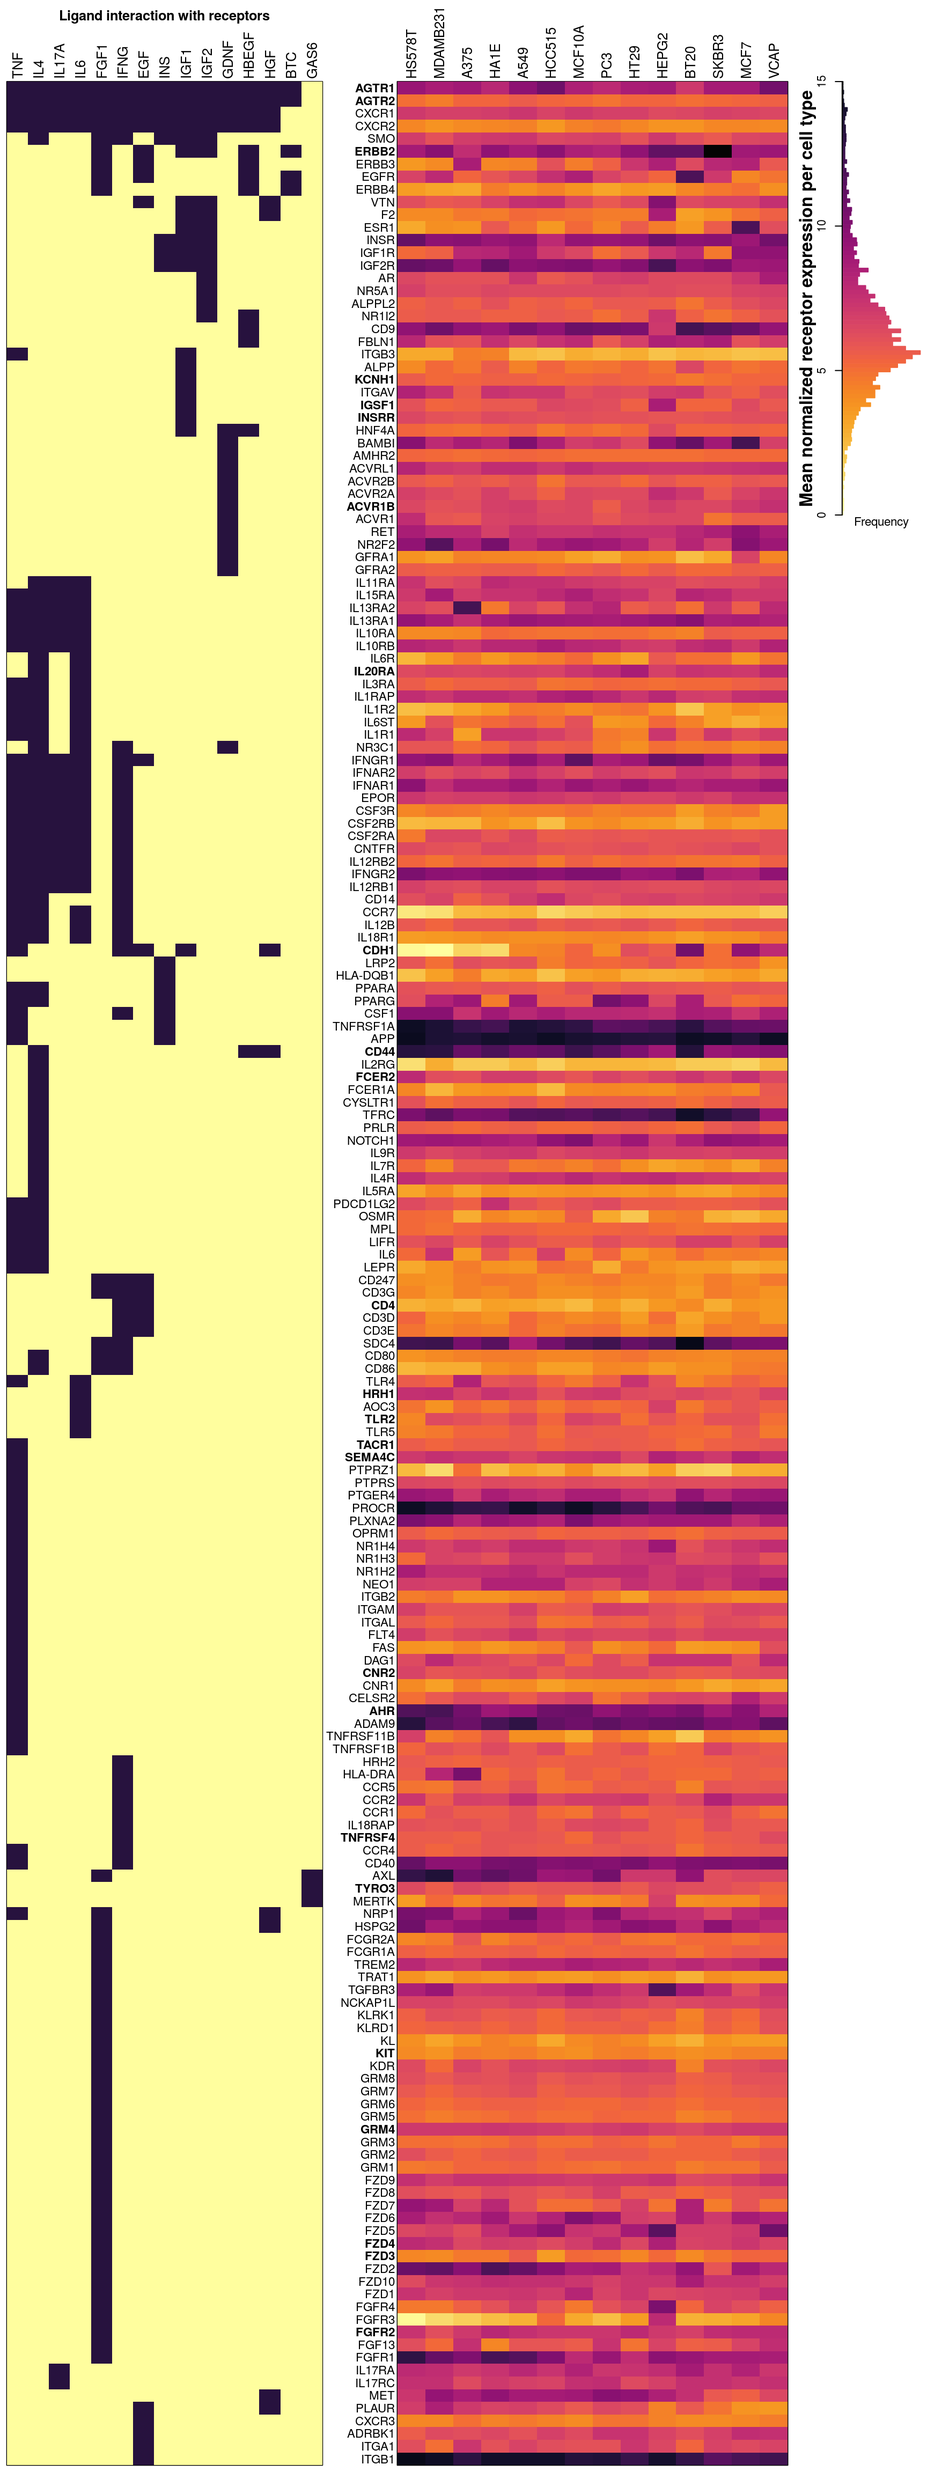
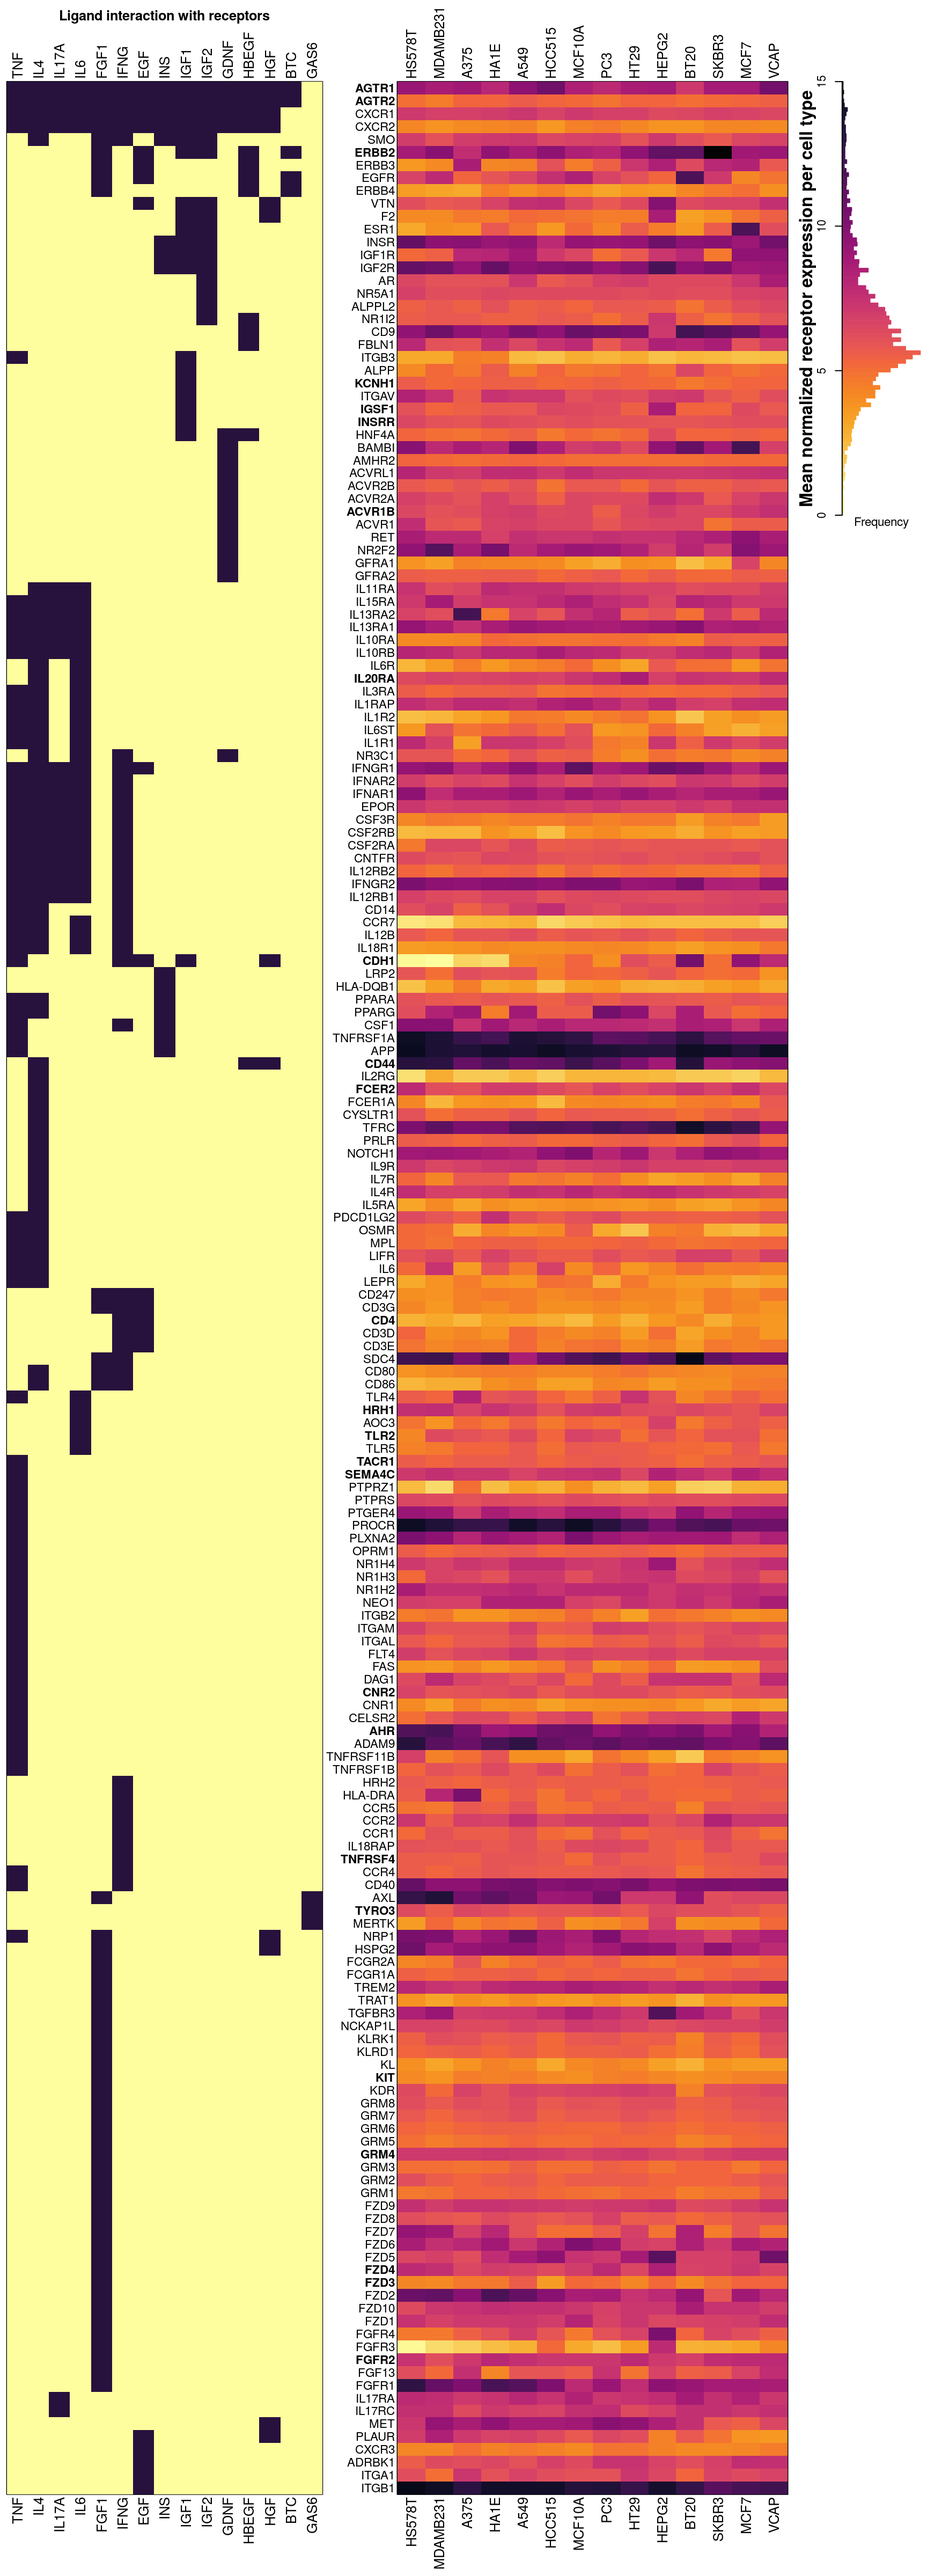
receptor expr - accuracy corr

diff --git a/docs/RecExpr.html b/docs/RecExpr.html
@@ -321,13 +321,18 @@ $(document).ready(function () {
 ## 97% (11%) of IL6 receptors present in CMap data, either inferred or (assayed). 
 ## 94% (25%) of INS receptors present in CMap data, either inferred or (assayed). 
 ## 99% (12%) of TNF receptors present in CMap data, either inferred or (assayed).</code></pre>
-<p>Below is an overview of all potential cognate receptors per ligand present in the data. The left figure shows which ligands (dark purple) each receptor is known to interact with. On the right is a heatmap showing mean normalized gene expression per cell type for each receptor gene, with darker indicating higher expression. Gene names (rows) are ordered by heirarchical clustering of ligand-receptor interaction data, such that receptors common to the same ligand should be together. Ligand names (columns, left) are ordered by heirarchical clustering of ligand-receptor interaction data, such that ligands sharing the same receptors should be proximal. Cell type names (columns, right) are ordered by heirarchical clustering of mean receptor gene expression.</p>
+<p>Below is an overview of all potential cognate receptors per ligand present in the data. The left figure shows which ligands (dark purple) each receptor is known to interact with. On the right is a heatmap showing mean normalized gene expression per cell type for each receptor gene, with darker indicating higher expression. Gene names (rows) are ordered by heirarchical clustering of ligand-receptor interaction data, such that receptors common to the same ligand should be together. <strong>Landmark</strong> gene expression was emperically determined rather than inferred (names indicated in bold). Ligand names (columns, left) are ordered by heirarchical clustering of ligand-receptor interaction data, such that ligands sharing the same receptors should be proximal. Cell type names (columns, right) are ordered by heirarchical clustering of mean receptor gene expression.</p>
 <p><img src="RecExpr_files/figure-html/rec_expr-1.png" width="864" /></p>
+<div id="receptor-availability-affecting-ligand-prediction-accuracy" class="section level2">
+<h2>Receptor availability affecting ligand prediction accuracy</h2>
+<p>Cognate receptor expression for each ligand was compared to the accuracy per cell line of the leave-one-out ligand classification model outlined <a href="https://baderlab.github.io/Brendan_CCInxPred/LigPred_lvl5.html#cell-type-biases-in-accuracy">previously</a>. Lines for each receptor are coloured by the spearman correlation coefficient between expression and accuracy per cell type (purple is negative, green is positive), and the three most correlated receptor genes are labeled.</p>
+<p><img src="RecExpr_files/figure-html/rec_expr_acc_corr-1.png" width="864" /></p>
 <hr />
 <div id="tumour-necrosis-factor-alpha-tnf" class="section level3">
 <h3>Tumour necrosis factor alpha (TNF)</h3>
 <p>TNF binds to two receptors, TNFR1 and TNFR2, neither of which are present in the CMap data (neither assayed nor inferred). This is probably because they are (at least TNFR1) ubiquitously expressed, and thus their expression profiles are not informative or easily inferred. That may also explain why the transcriptional response to TNF treatment is so consistent - the may be receptor is present on all cell types. Downstream of TNF receptor activation, the multiple signaling pathways with conflicting phenotypes can be activated, though our data shows robust increases in expression of a common subset of genes across cell lines (see above).</p>
 <hr />
+</div>
 </div>
 </div>
 
